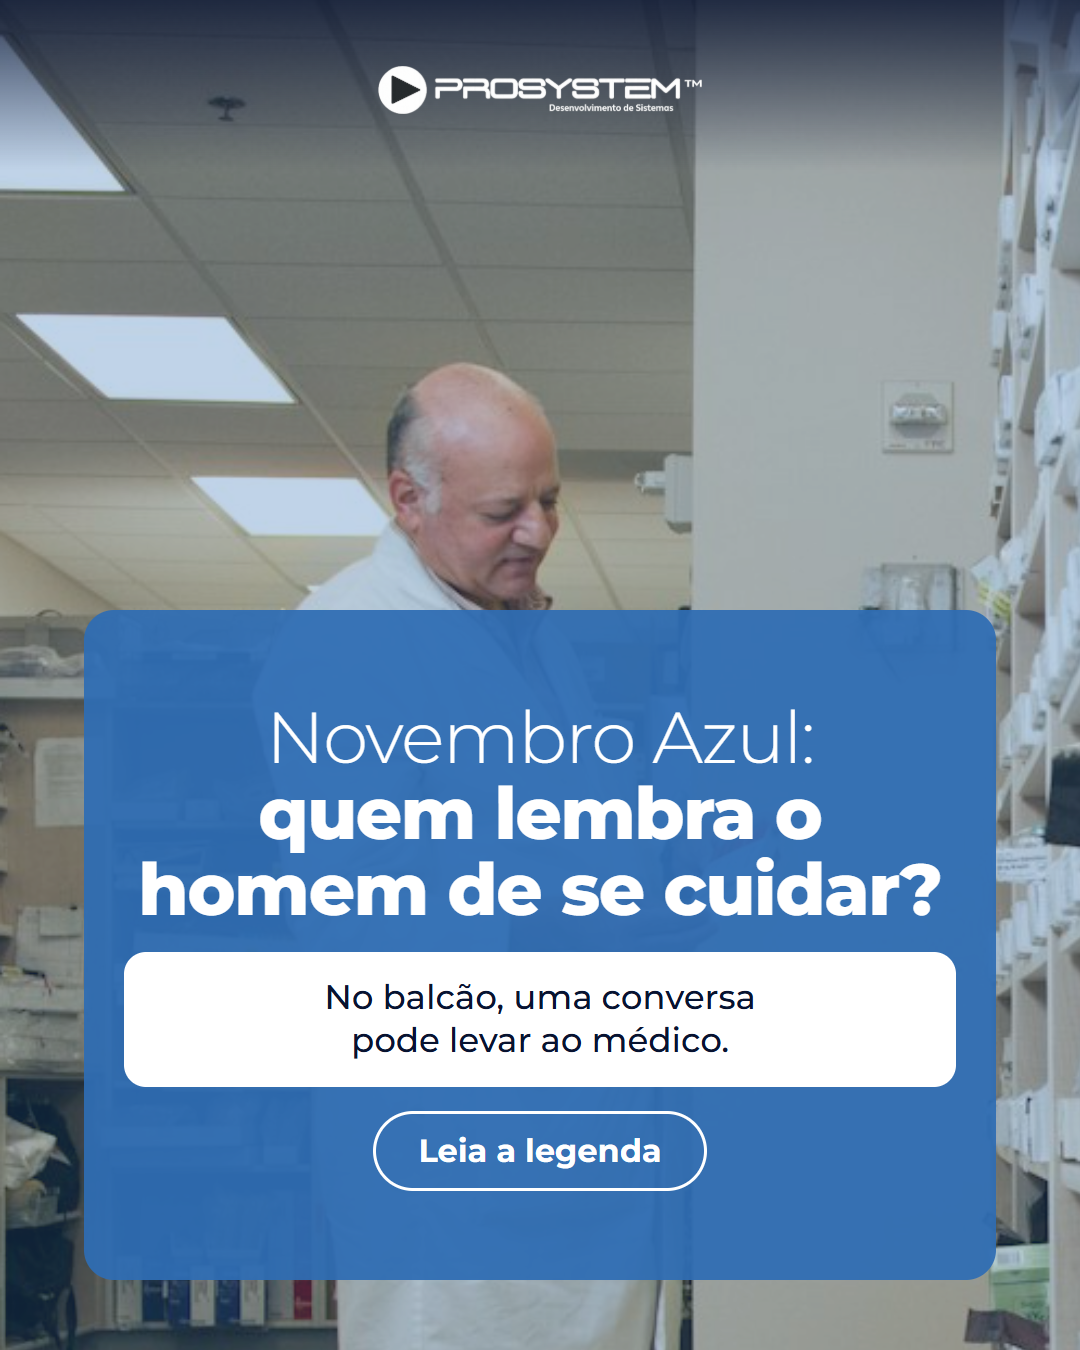
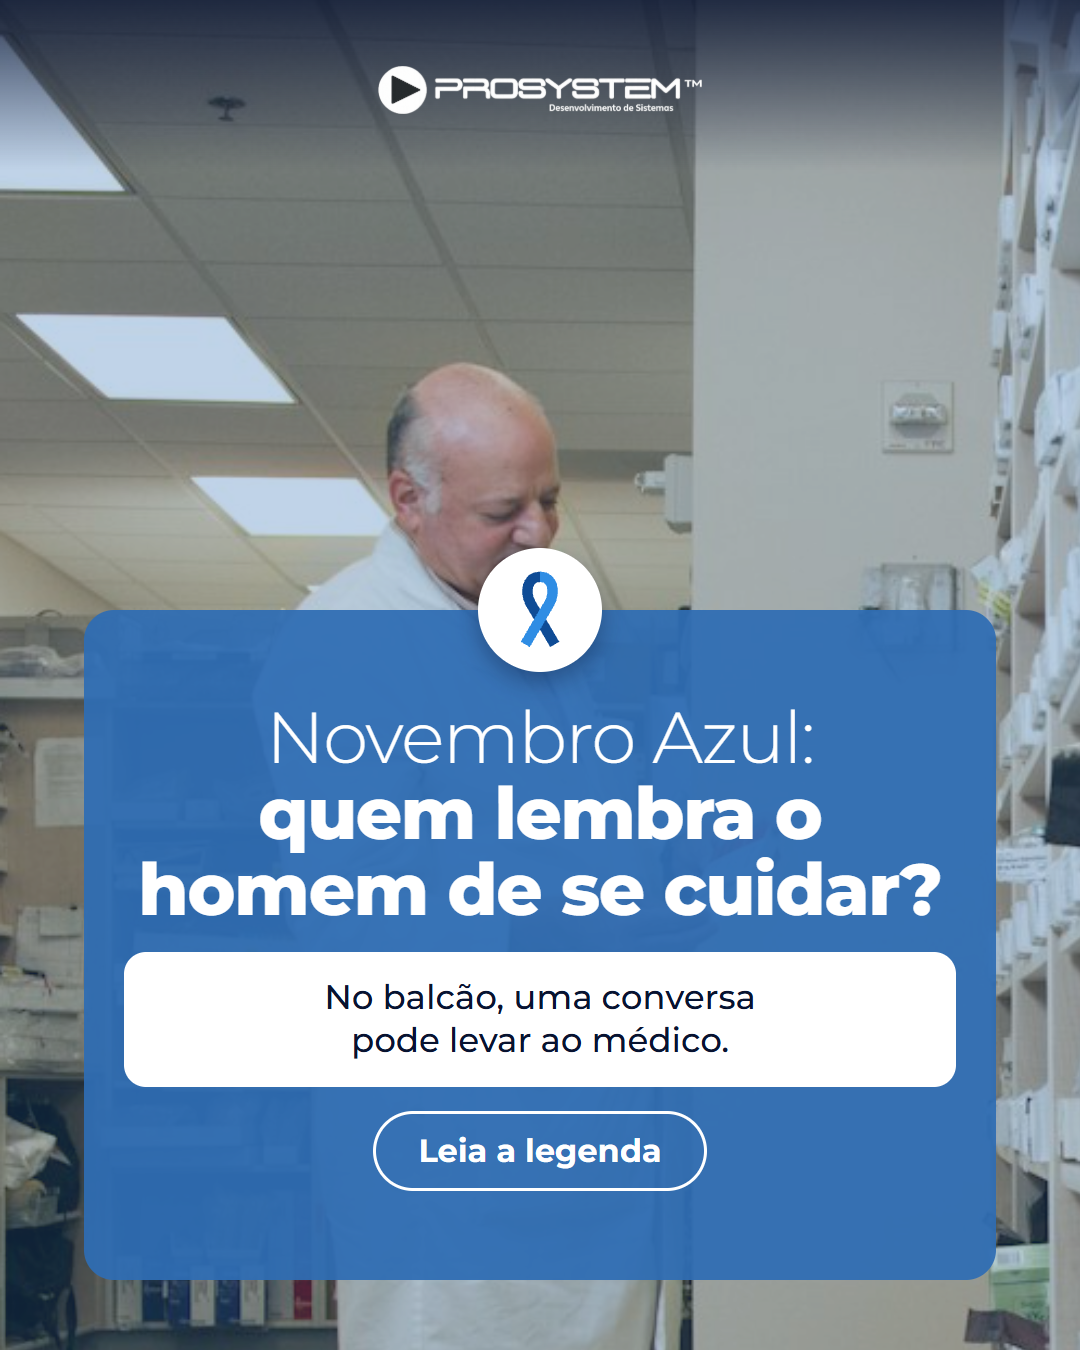
Atualização automática (03/11/2026 13:20): 2 arquivo(s)
Arquivos: outputs/criativos/nov-dez/pecas-dados.js, outputs/criativos/nov-dez/pecas/farmacia-novembro-azul-v1.png

Changed region(s): [[0.4278, 0.4044, 0.5806, 0.5289]]

diff --git a/outputs/criativos/nov-dez/pecas-dados.js b/outputs/criativos/nov-dez/pecas-dados.js
@@ -361,7 +361,7 @@ const P = [
   alts: ['Painel de delivery do Prosystem com atendimentos, valor médio e evolução de vendas, e o título: cadê o entregador? E o dinheiro da entrega?'],
   conferir: ['Produto: a Gestão de entregas vale em padaria?', 'O painel é de plano Plus e foi recortado sem o nome "Drogaria Modelo".', 'A tela mostra tempo médio de entrega de 3h 19m, dado fictício que não ajuda a venda: pedir outra captura ou cobrir no mockup.', 'A tela diz "Ticket médio". Se ficar legível no mockup, é a palavra difícil da peça.'] },
 
-{ data: 'Ter 17/11', seg: 'Farmácia', id: 'farmacia-novembro-azul-v1', tipo: 'fotoPainel', tema: 'azul', formato: 'Foto com painel', nova: true, semAno: true, foto: 'farmaceutico-conferindo', posicao: '8% 20%', ajuste: 'transform-origin:0 0;transform:scale(1.5)',
+{ data: 'Ter 17/11', seg: 'Farmácia', id: 'farmacia-novembro-azul-v1', tipo: 'fotoPainel', tema: 'azul', formato: 'Foto com painel', nova: true, semAno: true,  laco: true, foto: 'farmaceutico-conferindo', posicao: '8% 20%', ajuste: 'transform-origin:0 0;transform:scale(1.5)',
   titulo: 'Novembro Azul: <b>quem lembra o homem de se cuidar?</b>', fs: 72, faixa: 'No balcão, uma conversa pode levar ao médico.', pilula: 'Leia a legenda',
   kw: '',
   cap: 'Novembro Azul é o mês de falar da saúde do homem, e muitas vezes ele aparece primeiro na farmácia, não no consultório.\n\nA campanha começou com o câncer de próstata e hoje lembra também de glicemia e vacina em dia. No balcão, uma conversa simples pode ser o empurrão para marcar a consulta.\n\nMostre este post para quem atende na sua farmácia.',
